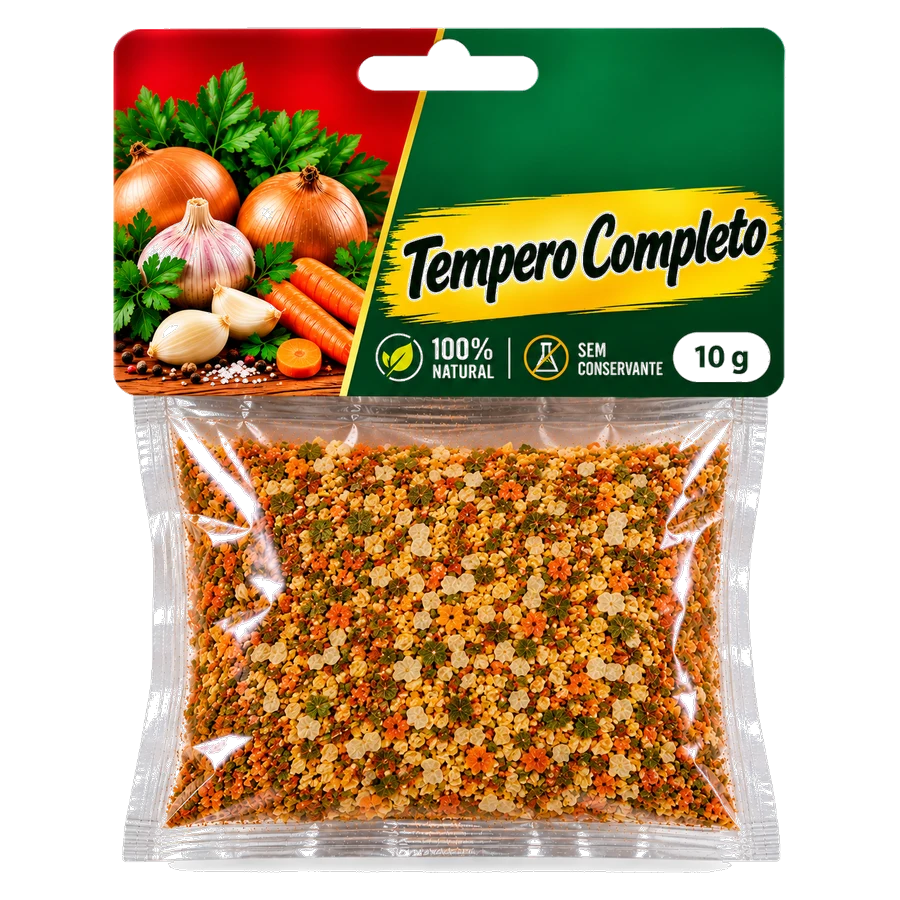
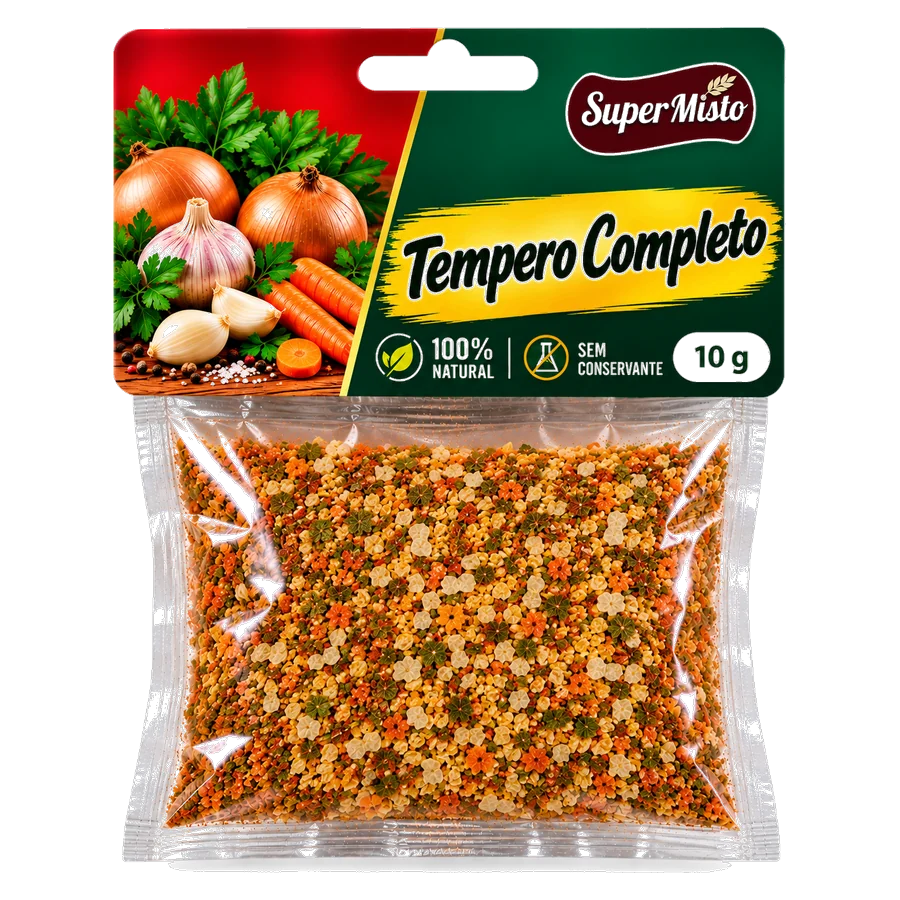
Site Supermisto: 15 produtos com foto, receitas novas
Claude-Session: https://claude.ai/code/session_01UfbvQyVUMZpEq6zNbbPKYT

Changed region(s): [[0.4356, 0.0311, 0.8711, 0.2489]]

diff --git a/SITE-SUPERMISTO/receitas.js b/SITE-SUPERMISTO/receitas.js
@@ -1,7 +1,7 @@
 /* Receitas Super Misto: textos próprios. "usa" = nomes exatos de produtos do catálogo (produtos.js). */
 const RECEITAS = [
   {
-    id: 'macarrao-alho-ervas', foto: 'macarrao-alho-ervas', emoji: '🍝', cor: '#C99A3B', tempo: '20 min', rende: '4 porções',
+    id: 'macarrao-alho-ervas', emoji: '🍝', cor: '#C99A3B', tempo: '20 min', rende: '4 porções',
     titulo: 'Macarrão cremoso com alho e ervas',
     resumo: 'Prato rápido de dia de semana, cremoso e perfumado.',
     usa: ['Alho em pó', 'Ervas finas', 'Pimenta-do-reino moída', 'Noz-moscada moída'],
@@ -9,33 +9,33 @@ const RECEITAS = [
     preparo: ['Cozinhe o macarrão em água com sal até ficar al dente e reserve um pouco da água.', 'Derreta a manteiga, junte o alho em pó e mexa por 30 segundos.', 'Acrescente o creme de leite, o queijo, as ervas, a pimenta e uma pitada de noz-moscada.', 'Misture o macarrão e ajuste a cremosidade com a água do cozimento.'],
   },
   {
-    id: 'feijao-3-jeitos', emoji: '🫘', cor: '#7A3E1D', tempo: '1h30', rende: '6 porções',
-    titulo: '3 jeitos de temperar o feijão de todo dia',
-    resumo: 'O mesmo feijão, três sabores diferentes: o tradicional de casa, o defumado e o baiano.',
+    id: 'feijao-de-panela', foto: 'feijao-de-panela', emoji: '🫘', cor: '#7A3E1D', tempo: '1h30', rende: '6 porções',
+    titulo: 'Feijão de panela com linguiça',
+    resumo: 'Caldo grosso e cheiroso, com colorau, cominho e alho: o feijão de domingo em qualquer dia.',
     usa: ['Louro em folha', 'Cominho moído', 'Tempero para feijão', 'Páprica defumada', 'Tempero baiano'],
     ingredientes: ['500 g de feijão carioca ou preto', '2 folhas de louro', '1 colher (sopa) de óleo', '1 colher (chá) de Tempero para feijão Super Misto', 'Sal a gosto'],
     preparo: ['Deixe o feijão de molho por 8 horas e troque a água.', 'Cozinhe na pressão com as folhas de louro por 30 minutos.', 'Refogue o óleo com o Tempero para feijão, junte duas conchas de feijão, amasse e volte para a panela.', 'Deixe engrossar por 10 minutos e acerte o sal.'],
     variacoes: [['Tradicional', 'Louro + 1/2 colher (chá) de cominho no refogado.'], ['Defumado', '1 colher (chá) de páprica defumada e cubinhos de bacon.'], ['Baiano', '1 colher (chá) de tempero baiano e cheiro-verde no final.']],
   },
   {
-    id: 'arroz-4-temperos', foto: 'arroz-4-temperos', emoji: '🍚', cor: '#C9A44E', tempo: '25 min', rende: '4 porções',
-    titulo: '4 temperos para o arroz de todo dia ficar do seu jeito',
-    resumo: 'Arroz branco não precisa ser sem graça: veja como mudar o sabor com uma colher de tempero.',
+    id: 'arroz-amarelinho', foto: 'arroz-amarelinho', emoji: '🍚', cor: '#C9A44E', tempo: '25 min', rende: '4 porções',
+    titulo: 'Arroz amarelinho com cúrcuma',
+    resumo: 'Soltinho, dourado e perfumado com cúrcuma, alho e cebola.',
     usa: ['Tempero para arroz', 'Alho em pó', 'Açafrão-da-terra (cúrcuma)', 'Ervas finas', 'Colorau'],
     ingredientes: ['2 xícaras de arroz', '4 xícaras de água quente', '1 colher (sopa) de óleo', '1 colher (chá) de Tempero para arroz Super Misto', 'Sal a gosto'],
     preparo: ['Aqueça o óleo e refogue o Tempero para arroz por 30 segundos.', 'Junte o arroz e mexa até os grãos ficarem brilhantes.', 'Coloque a água quente e o sal, tampe e cozinhe em fogo baixo até secar.', 'Desligue e deixe abafado por 5 minutos antes de soltar com o garfo.'],
     variacoes: [['Dourado', '1/2 colher (chá) de cúrcuma: cor amarela e sabor suave.'], ['Avermelhado', '1/2 colher (chá) de colorau: perfeito com frango.'], ['De ervas', '1 colher (chá) de ervas finas no final.'], ['Alho em dobro', '1 colher (chá) de alho em pó no refogado.']],
   },
   {
-    id: 'picadinho-carioca', emoji: '🥩', cor: '#8C2F1B', tempo: '50 min', rende: '4 porções',
-    titulo: 'Picadinho carioca com 3 temperos',
-    resumo: 'O clássico dos botecos do Rio, com molho encorpado e muito sabor.',
+    id: 'carne-de-panela', foto: 'carne-de-panela', emoji: '🥩', cor: '#8C2F1B', tempo: '50 min', rende: '4 porções',
+    titulo: 'Carne de panela com batata e cenoura',
+    resumo: 'Carne macia no molho encorpado, com Tempero Completo, pimenta e páprica.',
     usa: ['Tempero completo', 'Páprica doce', 'Salsa desidratada'],
     ingredientes: ['600 g de patinho ou alcatra em cubos', '1 colher (sopa) de Tempero completo Super Misto', '1 colher (chá) de Páprica doce', '1 tomate picado', '1 xícara de água', 'Salsa desidratada para finalizar'],
     preparo: ['Tempere a carne com o Tempero completo e a páprica e deixe descansar 15 minutos.', 'Doure a carne em panela bem quente, aos poucos, para não soltar água.', 'Junte o tomate e a água, tampe e cozinhe por 30 minutos em fogo baixo.', 'Finalize com a salsa e sirva com arroz, farofa e ovo frito.'],
   },
   {
-    id: 'frango-assado-dourado', foto: 'frango-assado-dourado', emoji: '🍗', cor: '#C76B22', tempo: '1h10', rende: '5 porções',
+    id: 'frango-assado-dourado', emoji: '🍗', cor: '#C76B22', tempo: '1h10', rende: '5 porções',
     titulo: 'Frango assado dourado e suculento',
     resumo: 'Pele crocante por fora, carne macia por dentro, com tempero que penetra de verdade.',
     usa: ['Tempero para frango', 'Páprica doce', 'Alho em pó', 'Alecrim'],
@@ -43,9 +43,9 @@ const RECEITAS = [
     preparo: ['Misture todos os temperos com o limão e o azeite.', 'Esfregue no frango, inclusive embaixo da pele, e deixe na geladeira por pelo menos 2 horas.', 'Asse coberto com papel-alumínio a 200 °C por 40 minutos.', 'Retire o papel e asse mais 20 minutos para dourar.'],
   },
   {
-    id: 'churrasco-perfeito', foto: 'churrasco-perfeito', emoji: '🔥', cor: '#5E2416', tempo: '40 min', rende: '6 porções',
-    titulo: 'Churrasco perfeito: sal de parrilla, chimichurri e farofa',
-    resumo: 'O trio que transforma qualquer churrasco de domingo.',
+    id: 'picanha-chimichurri', foto: 'picanha-chimichurri', emoji: '🔥', cor: '#5E2416', tempo: '40 min', rende: '6 porções',
+    titulo: 'Picanha na brasa com chimichurri',
+    resumo: 'Picanha suculenta e linguiça com o chimichurri Supermisto por cima.',
     usa: ['Sal de parrilla', 'Chimichurri', 'Farofa pronta tradicional', 'Pimenta biquinho em conserva'],
     ingredientes: ['1,2 kg de picanha', 'Sal de parrilla Super Misto', '3 colheres (sopa) de Chimichurri', '6 colheres (sopa) de azeite', 'Farofa pronta Super Misto', 'Pimenta biquinho para servir'],
     preparo: ['Corte a picanha em bifes grossos e salgue com o sal de parrilla 30 minutos antes.', 'Asse na brasa forte, primeiro do lado da gordura.', 'Misture o chimichurri com o azeite e deixe hidratar 15 minutos.', 'Fatie a carne e sirva com o chimichurri por cima, farofa e pimenta biquinho.'],

diff --git a/SITE-SUPERMISTO/site.js b/SITE-SUPERMISTO/site.js
@@ -17,7 +17,7 @@ const KITS = [
 
 /* Fotos reais: coloque o arquivo em img/produtos/<nome-do-produto>.webp e o nome aqui (ex.: 'colorau').
    Produto sem foto aparece com a embalagem desenhada. */
-const FOTOS = new Set(['tempero-completo', 'colorau', 'pimenta-do-reino-moida']);
+const FOTOS = new Set(['colorau', 'tempero-completo', 'pimenta-do-reino-moida', 'cominho-moido', 'chimichurri', 'oregano', 'paprica-doce', 'paprica-defumada', 'acafrao-da-terra-curcuma', 'alho-em-po', 'cebola-em-po', 'lemon-pepper', 'pimenta-calabresa', 'canela-em-po', 'tempero-baiano']);
 const slug = (n) => n.toLowerCase().normalize('NFD').replace(/[\u0300-\u036f]/g, '').replace(/[^a-z0-9]+/g, '-').replace(/^-|-$/g, '');
 function midia(p, peso) {
   return FOTOS.has(slug(p.nome)) ? `<img class="foto-prod" src="img/produtos/${slug(p.nome)}.webp" alt="${escapar(p.nome)} Supermisto" loading="lazy">` : embalagem(p, peso);
@@ -160,10 +160,10 @@ function inicio() {
     return `<a class="linha aparece" href="catalogo.html?linha=${l.id}"><span class="linha-foto" style="${fundo}"></span><b>${l.nome}</b><em>${qtd} produtos</em></a>`;
   }).join('');
   // só produtos com foto real (os outros entram quando a foto chegar)
-  const fav = PRODUTOS.map((p, i) => [p, i]).filter(([p]) => FOTOS.has(slug(p.nome)));
+  const fav = PRODUTOS.map((p, i) => [p, i]).filter(([p]) => FOTOS.has(slug(p.nome))).slice(0, 7);
   // "Mais sabores" só completa a fileira quando sobra espaço
-  $('#favoritos').innerHTML = fav.map(([p, i]) => cartao(p, i)).join('') + (fav.length % 4 ?
-    `<a class="prod prod-breve aparece" href="catalogo.html"><b>Mais sabores</b><span>Cominho, chimichurri, orégano e muito mais chegando.</span><em>Ver catálogo completo →</em></a>` : '');
+  $('#favoritos').innerHTML = fav.map(([p, i]) => cartao(p, i)).join('') + (true ?
+    `<a class="prod prod-breve aparece" href="catalogo.html"><b>Mais sabores</b><span>Lemon pepper, calabresa, canela, tempero baiano e muito mais.</span><em>Ver catálogo completo →</em></a>` : '');
   ligarCartoes($('#favoritos'));
   receitasLista($('#receitas-home'), RECEITAS.filter((r) => r.foto).slice(0, 4));
   $$('.emp, .dicas article, .passos li, details').forEach((e) => e.classList.add('aparece'));

diff --git a/SITE-SUPERMISTO/produtos.js b/SITE-SUPERMISTO/produtos.js
@@ -150,3 +150,8 @@ function embalagem(p, peso) {
   }
   return `<svg viewBox="0 0 160 190" role="img" aria-label="${escapar(p.nome)} Super Misto" font-family="Poppins, Arial, sans-serif">${defs}<ellipse cx="80" cy="184" rx="58" ry="5" fill="#000" opacity=".12"/>${corpo}</svg>`;
 }
+
+// Linha Supermisto em sachê/pacote: os mesmos tamanhos em todos os sabores.
+const LINHA_PACOTES = ['Colorau', 'Pimenta-do-reino moída', 'Cominho moído', 'Páprica doce', 'Páprica defumada', 'Açafrão-da-terra (cúrcuma)',
+  'Alho em pó', 'Cebola em pó', 'Canela em pó', 'Pimenta calabresa', 'Tempero completo', 'Tempero baiano', 'Lemon pepper', 'Chimichurri', 'Orégano'];
+PRODUTOS.forEach((p) => { if (LINHA_PACOTES.includes(p.nome)) p.tam = ['10 g', '50 g', '100 g', '1 kg']; });
